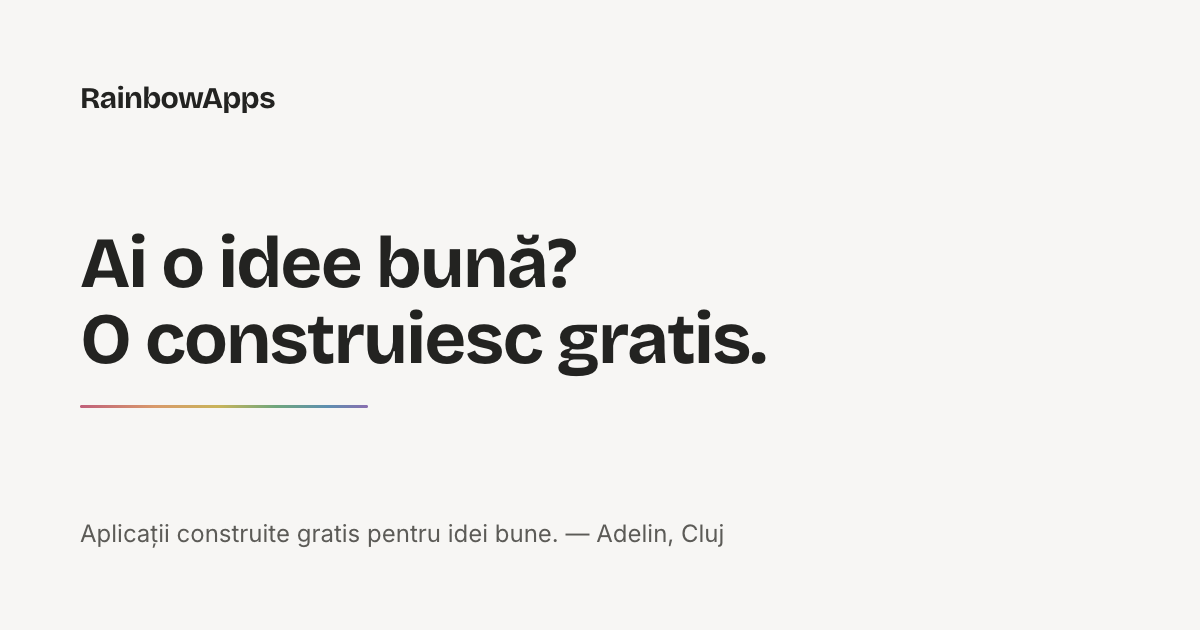
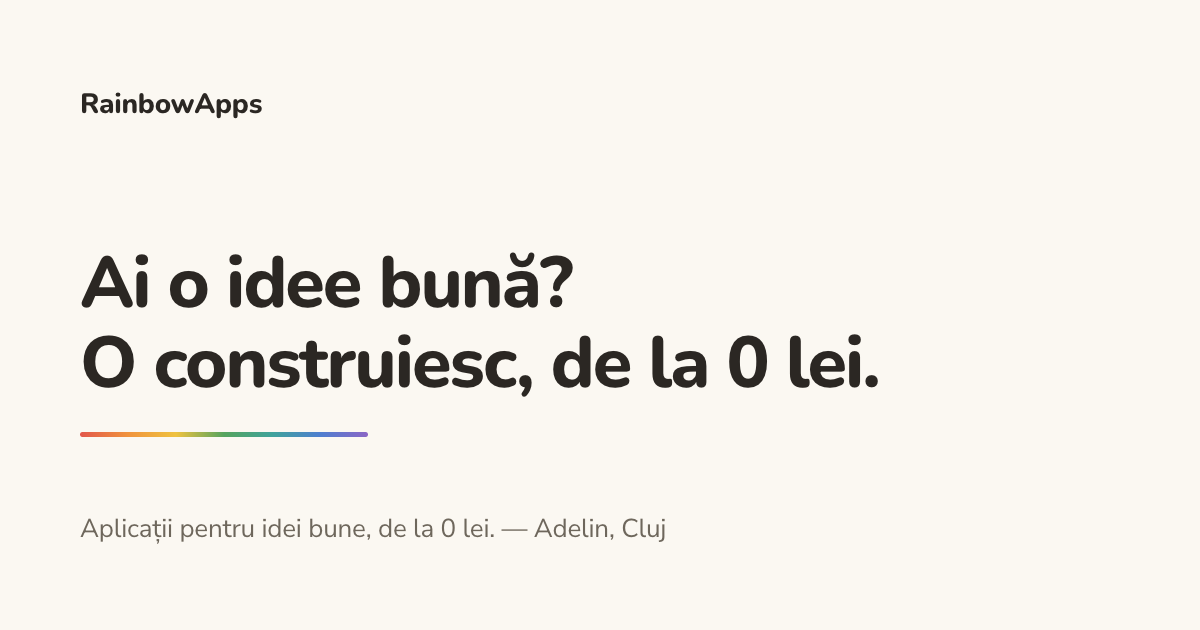
Reposition from "gratis" to "de la 0 lei": free for NGOs/good causes/small projects, paid for larger ones
- Hero, metadata/OG title+description, share texts, steps, timeline "azi", donation
  card, /colaborare rule 1 and post-handover rule now say "de la 0 lei" — gratuit
  pentru ONG-uri, cauze bune și multe idei mici; contra cost pentru proiecte mai
  mari, fără listă de prețuri (stabilit după ce citesc ideea).
- /trimite gets one muted line: you don't need to know upfront whether it's free.
- No form field, no DB change: triage happens from the idea text (owner decision).
- public/og.png regenerated from the new scripts/og.html (Nunito 800, brand spectrum).
- SPEC.md §5/§6, CLAUDE.md intro and README updated so the verbatim copy stays the
  source of truth; "ONG‑uri" uses a non-breaking hyphen so it never splits.

Claude-Session: https://claude.ai/code/session_01KcHbq2BckiAYEFheQVsfiB

Changed region(s): [[0.0617, 0.3619, 0.74, 0.6937], [0.0617, 0.8143, 0.6167, 0.8746], [0.0617, 0.1206, 0.2467, 0.181]]

diff --git a/app/page.tsx b/app/page.tsx
@@ -40,7 +40,7 @@ const SPECTRU_GRADIENT = `linear-gradient(90deg, ${SPECTRU.join(", ")})`;
 const STEPS = [
   {
     title: "Îmi spui ideea",
-    body: "Completezi un formular scurt. Fără jargon, fără cont, fără costuri.",
+    body: "Completezi un formular scurt. Fără jargon, fără cont, fără obligații.",
     color: SPECTRU[0],
   },
   {
@@ -50,7 +50,7 @@ const STEPS = [
   },
   {
     title: "O construiesc",
-    body: "De la un weekend la o lună. Singurul tău cost e domeniul, ~10–15 € pe an. Găzduirea e gratuită, iar restul e din partea mea.",
+    body: "De la un weekend la o lună. Pentru ONG‑uri, cauze bune și proiecte mici, singurul tău cost e domeniul, ~10–15 € pe an. Pentru proiecte mai mari îți spun un preț înainte să încep.",
     color: SPECTRU[3],
   },
 ];
@@ -122,12 +122,14 @@ export default async function Home() {
           <StatusBadge />
           <h1 className="font-display text-[40px] font-extrabold leading-[1.12] tracking-[-1px] text-ink text-balance sm:text-[56px]">
             Ai o idee <span className="underline-spectrum">bună</span>? O
-            construiesc gratis.
+            construiesc, de la 0 lei.
           </h1>
           <p className="max-w-[520px] text-lg leading-[1.65] text-ink-soft text-pretty">
             Sunt Adelin, programator din Cluj. Dacă ai o idee de aplicație care
-            ajută oameni, dar nu știi să programezi, o construiesc eu —
-            gratuit. Tu păstrezi totul: ideea, codul, domeniul.
+            ajută oameni, dar nu știi să programezi, o construiesc eu. Gratuit
+            pentru ONG‑uri, cauze bune și multe idei mici; contra cost pentru
+            proiecte mai mari — îți spun dinainte. Tu păstrezi totul: ideea,
+            codul, domeniul.
           </p>
           <div className="mt-1.5 flex flex-wrap gap-3">
             <Link href="/trimite" className="btn-primary">
@@ -333,8 +335,8 @@ export default async function Home() {
                   Cu o donație
                 </h3>
                 <p className="text-[14.5px] leading-relaxed text-ink-muted">
-                  Construirea e gratuită pentru oameni, dar uneltele și
-                  găzduirea costă. Orice sumă ajută.
+                  Pentru ONG‑uri și cauze bune construiesc gratuit, dar
+                  uneltele și găzduirea costă. Orice sumă ajută.
                 </p>
                 <DonateCard />
               </div>
@@ -351,7 +353,7 @@ export default async function Home() {
         <div className="reveal">
           <Kicker color={SPECTRU[3]}>Cum funcționează</Kicker>
           <h2 className="mt-2.5 mb-7 font-display text-3xl font-extrabold tracking-[-0.5px] text-ink sm:text-[34px]">
-            Trei pași, zero costuri.
+            Trei pași, fără surprize.
           </h2>
           <ol className="grid gap-5 sm:grid-cols-3">
             {STEPS.map((step, i) => (
@@ -427,7 +429,7 @@ export default async function Home() {
                 <ArcMark className="mt-0.5 h-3.5 flex-none" />
                 <p className="text-sm leading-normal text-ink-soft">
                   <strong className="text-ink">azi</strong> · Construiesc
-                  aplicații gratuite pentru oameni cu idei bune.
+                  aplicații pentru oameni cu idei bune — de la 0 lei.
                 </p>
               </li>
             </ol>

diff --git a/scripts/og.html b/scripts/og.html
@@ -1,0 +1,46 @@
+<!doctype html>
+<!--
+  Source for public/og.png (1200×630 Open Graph card).
+  Regenerate: open this file in a browser at a 1200×630 viewport and screenshot it
+  (e.g. Playwright: page.setViewportSize({width:1200,height:630}); page.screenshot({path:'public/og.png'})).
+  Keep the text in sync with the hero in SPEC.md §6.1.
+-->
+<html lang="ro">
+<head>
+  <meta charset="utf-8">
+  <title>RainbowApps OG</title>
+  <link rel="preconnect" href="https://fonts.googleapis.com">
+  <link href="https://fonts.googleapis.com/css2?family=Nunito:wght@800&family=Nunito+Sans:wght@400;700&display=swap" rel="stylesheet">
+  <style>
+    html, body { margin: 0; padding: 0; }
+    body {
+      width: 1200px; height: 630px; overflow: hidden;
+      background: #fbf8f2; color: #2b2723;
+      font-family: "Nunito Sans", system-ui, sans-serif;
+      -webkit-font-smoothing: antialiased;
+    }
+    .card { position: relative; width: 1200px; height: 630px; padding: 84px 80px; box-sizing: border-box; }
+    .brand { font-family: "Nunito", sans-serif; font-weight: 800; font-size: 28px; letter-spacing: -0.3px; }
+    h1 {
+      font-family: "Nunito", sans-serif; font-weight: 800; font-size: 72px; line-height: 1.12;
+      letter-spacing: -2px; margin: 120px 0 0; max-width: 980px;
+    }
+    .line {
+      margin-top: 28px; width: 288px; height: 5px; border-radius: 3px;
+      background: linear-gradient(90deg, #E2574C, #F0933D, #EFC23F, #55A45E, #3FA39B, #4E7FD0, #8B66C6);
+    }
+    .tag {
+      position: absolute; left: 80px; bottom: 84px;
+      font-size: 26px; color: #6e675c; letter-spacing: -0.2px;
+    }
+  </style>
+</head>
+<body>
+  <div class="card">
+    <div class="brand">RainbowApps</div>
+    <h1>Ai o idee bună?<br>O construiesc, de la 0 lei.</h1>
+    <div class="line"></div>
+    <div class="tag">Aplicații pentru idei bune, de la 0 lei. — Adelin, Cluj</div>
+  </div>
+</body>
+</html>

diff --git a/app/colaborare/page.tsx b/app/colaborare/page.tsx
@@ -4,14 +4,14 @@ import Link from "next/link";
 export const metadata: Metadata = {
   title: "Cum colaborăm — RainbowApps",
   description:
-    "Regulile colaborării, puține și simple: construirea e gratuită, stabilim împreună ce înseamnă „gata”, și totul rămâne al tău.",
+    "Regulile colaborării, puține și simple: de la 0 lei, stabilim împreună ce înseamnă „gata”, și totul rămâne al tău.",
   alternates: { canonical: "/colaborare" },
 };
 
 const REGULI = [
   {
-    title: "Construirea e gratuită.",
-    body: "De la ideea ta la o aplicație funcțională, nu mă plătești. Singurul cost e domeniul, ~10–15 € pe an. Găzduirea e de regulă gratuită la început.",
+    title: "De la 0 lei.",
+    body: "Pentru ONG‑uri, cauze bune și multe proiecte mici nu mă plătești: singurul cost e domeniul, ~10–15 € pe an, iar găzduirea e de regulă gratuită la început. Proiectele mai mari sau mai complexe — de obicei ale unor firme — sunt contra cost. Nu am o listă de prețuri: după ce îmi spui ideea, îți spun sincer unde se încadrează și, dacă e cazul, cât ar costa, înainte să scriu o linie de cod.",
   },
   {
     title: "Stabilim împreună ce înseamnă „gata”.",
@@ -23,7 +23,7 @@ const REGULI = [
   },
   {
     title: "După predare, aplicația e a ta.",
-    body: "O poți duce mai departe singur, cu altcineva sau cu mine. Dacă vrei să continuăm — funcționalități noi, întreținere, ajutor — stabilim atunci, separat. E posibil ca partea asta să nu mai fie gratuită; construirea, da, întotdeauna.",
+    body: "O poți duce mai departe singur, cu altcineva sau cu mine. Dacă vrei să continuăm — funcționalități noi, întreținere, ajutor — stabilim atunci, separat, și îți spun dinainte dacă și cât costă.",
   },
   {
     title: "Un singur proiect o dată.",

diff --git a/app/layout.tsx b/app/layout.tsx
@@ -20,9 +20,9 @@ const nunitoSans = Nunito_Sans({
 });
 
 const siteUrl = process.env.NEXT_PUBLIC_SITE_URL ?? "https://www.rainbowapps.org";
-const title = "RainbowApps — Ai o idee bună? O construiesc gratis.";
+const title = "RainbowApps — Ai o idee bună? O construiesc, de la 0 lei.";
 const description =
-  "Sunt Adelin, programator din Cluj. Dacă ai o idee de aplicație care ajută oameni, dar nu știi să programezi, o construiesc eu — gratuit.";
+  "Sunt Adelin, programator din Cluj. Dacă ai o idee de aplicație care ajută oameni, dar nu știi să programezi, o construiesc eu — gratuit pentru ONG‑uri și cauze bune, contra cost pentru proiecte mai mari.";
 
 export const metadata: Metadata = {
   metadataBase: new URL(siteUrl),
@@ -40,7 +40,7 @@ export const metadata: Metadata = {
         url: "/og.png",
         width: 1200,
         height: 630,
-        alt: "RainbowApps — Ai o idee bună? O construiesc gratis.",
+        alt: title,
       },
     ],
   },

diff --git a/components/ShareCard.tsx b/components/ShareCard.tsx
@@ -3,9 +3,9 @@
 import { useEffect, useState } from "react";
 
 const SHARE_URL = "https://www.rainbowapps.org";
-const SHARE_TITLE = "RainbowApps — Ai o idee bună? O construiesc gratis.";
+const SHARE_TITLE = "RainbowApps — Ai o idee bună? O construiesc, de la 0 lei.";
 const SHARE_TEXT =
-  "Ai o idee de aplicație care ajută oameni, dar nu știi să programezi? Adelin, un programator din Cluj, o construiește gratis — tu păstrezi totul.";
+  "Ai o idee de aplicație care ajută oameni, dar nu știi să programezi? Adelin, un programator din Cluj, o construiește — de la 0 lei. Tu păstrezi totul.";
 
 const LINKS = [
   {

diff --git a/app/trimite/page.tsx b/app/trimite/page.tsx
@@ -20,6 +20,10 @@ export default function TrimitePage() {
           Nu trebuie să fie tehnic și nu trebuie să fie perfect. Scrie-mi pur
           și simplu ce ai în cap.
         </p>
+        <p className="mt-3 text-[15px] leading-relaxed text-ink-muted">
+          Nu trebuie să știi acum dacă intră la „gratuit” sau nu. Îți spun eu,
+          sincer, după ce o citesc.
+        </p>
         <div className="mt-6 rounded-xl border border-line bg-surface p-5">
           <p className="font-display text-lg font-semibold text-ink">
             Nu știi de unde să începi?

diff --git a/SPEC.md b/SPEC.md
@@ -62,7 +62,7 @@ No CMS, no auth library, no i18n library, no AI SDK.
 | `/multumesc` | Server Component | Confirmation page shown after a successful submit |
 | `/ghid` | Server Component wrapping a client wizard | Five-step idea-structuring guide — a short, attributed adaptation of the Foundation Sprint ("Click", Knapp & Zeratsky); assembled draft prefills the /trimite form (added 2026-07-02) |
 | `/sustine` | Server Component wrapping a client form | Public testimonial ("vorbă bună") form — always lands unpublished, moderated from /admin (added 2026-07-02) |
-| `/colaborare` | Server Component | "Cum colaborăm" — the working agreement: free build, definition of done, ownership, post-handover support (added 2026-07-02) |
+| `/colaborare` | Server Component | "Cum colaborăm" — the working agreement: price from 0 lei (free for NGOs / good causes / small projects, paid for larger ones — no public prices), definition of done, ownership, post-handover support (added 2026-07-02, repositioned 2026-10-01) |
 | `/confidentialitate` | Server Component | Privacy policy in plain Romanian — GDPR information duty (added 2026-07-02) |
 
 The landing page links prominently to `/trimite`. After a successful submit, redirect to `/multumesc`.
@@ -72,16 +72,18 @@ The landing page links prominently to `/trimite`. After a successful submit, red
 ### 6.1 Landing `/`
 
 **Hero**
-- H1: `Ai o idee bună? O construiesc gratis.`
-- Subtitle: `Sunt Adelin, programator din Cluj. Dacă ai o idee de aplicație care ajută oameni, dar nu știi să programezi, o construiesc eu — gratuit. Tu păstrezi totul: ideea, codul, domeniul.`
+- H1: `Ai o idee bună? O construiesc, de la 0 lei.` *(repositioned 2026-10-01 — "de la 0 lei": free for NGOs / good causes / small projects, paid for larger ones, no public prices, no form field)*
+- Subtitle: `Sunt Adelin, programator din Cluj. Dacă ai o idee de aplicație care ajută oameni, dar nu știi să programezi, o construiesc eu. Gratuit pentru ONG-uri, cauze bune și multe idei mici; contra cost pentru proiecte mai mari — îți spun dinainte. Tu păstrezi totul: ideea, codul, domeniul.` *(repositioned 2026-10-01)*
 - Primary CTA button → `/trimite`: `Spune-mi ideea ta`
 - Show the **status badge** (section 6.4) near the hero.
 - Portrait photo of Adelin (`public/adelin.jpg`) beside the hero text on desktop, below the CTAs on mobile (added 2026-07-02 — credibility).
 
 **Cum funcționează** (a real 3-step sequence — numbered markers are appropriate here)
-1. `Îmi spui ideea` — `Completezi un formular scurt. Fără jargon, fără cont, fără costuri.`
+1. `Îmi spui ideea` — `Completezi un formular scurt. Fără jargon, fără cont, fără obligații.` *(repositioned 2026-10-01)*
 2. `Mă uit peste ea` — `Aleg ideile care ajută oameni și pe care le pot construi singur. Îți răspund oricum, indiferent de răspuns.`
-3. `O construiesc` — `De la un weekend la o lună. Singurul tău cost e domeniul, ~10–15 € pe an. Găzduirea e gratuită, iar restul e din partea mea.` *(reworded 2026-07-02 — the old "plătești doar domeniul (...) și găzduirea (gratuită)" read as paying for both)*
+3. `O construiesc` — `De la un weekend la o lună. Pentru ONG-uri, cauze bune și proiecte mici, singurul tău cost e domeniul, ~10–15 € pe an. Pentru proiecte mai mari îți spun un preț înainte să încep.` *(reworded 2026-07-02 — the old "plătești doar domeniul (...) și găzduirea (gratuită)" read as paying for both; repositioned 2026-10-01)*
+
+Section heading: `Trei pași, fără surprize.` *(was "zero costuri" — repositioned 2026-10-01)*
 
 **Povestea mea** *(added 2026-07-02, owner request — builds trust through the real arc, without private details)*
 
@@ -100,7 +102,7 @@ Timeline (a real chronological sequence — rendered along a vertical spectrum s
 - `2009` — `Primul meu program — scris ca să ușureze munca într-o firmă mică.`
 - `2012` — `M-am mutat la Cluj, în software. Am învățat să programez singur, din nevoie.`
 - `anii de după` — `Automatizare de teste, proiecte internaționale, echipe conduse.`
-- `azi` — `Construiesc aplicații gratuite pentru oameni cu idei bune.`
+- `azi` — `Construiesc aplicații pentru oameni cu idei bune — de la 0 lei.` *(repositioned 2026-10-01)*
 
 **De ce fac asta**
 > `Cred că o idee bună nu ar trebui să rămână blocată doar fiindcă omul din spatele ei nu scrie cod. M-au inspirat profesorii care predau gratis și oamenii care construiesc open source. Acesta e felul meu de a da înapoi.`
@@ -122,6 +124,7 @@ Second paragraph (added 2026-07-02 — profit-first ideas are welcome as long as
 
 - Short heading: `Trimite-mi ideea ta`
 - One reassuring line: `Nu trebuie să fie tehnic și nu trebuie să fie perfect. Scrie-mi pur și simplu ce ai în cap.`
+- A second, muted line (added 2026-10-01 — pricing is triaged from the idea text, never asked in the form): `Nu trebuie să știi acum dacă intră la „gratuit” sau nu. Îți spun eu, sincer, după ce o citesc.`
 - The form (section 7).
 
 ### 6.3 Portfolio cards (hardcoded, 3 items — third added 2026-07-02)

diff --git a/CLAUDE.md b/CLAUDE.md
@@ -1,6 +1,6 @@
 # RainbowApps — Project Guide
 
-RainbowApps (rainbowapps.org) is a free service run by one person (Adelin, Cluj-Napoca, under Rainbow Engineering SRL): I build apps for people who have a good idea but can't code. They keep everything — idea, code, domain. This website lets people submit an idea and shows my past work so they trust me.
+RainbowApps (rainbowapps.org) is a service run by one person (Adelin, Cluj-Napoca, under Rainbow Engineering SRL): I build apps for people who have a good idea but can't code. **Pricing is "de la 0 lei"** (owner decision 2026-10-01): free for NGOs, good causes and many small projects; larger/complex projects (typically companies) are paid, priced case by case after reading the idea. No public price list, no pricing/organisation field in the form — triage happens from the idea text. They keep everything — idea, code, domain. This website lets people submit an idea and shows my past work so they trust me.
 
 **Read `SPEC.md` in full before planning or building anything.** This file is only the quick reference.
 

diff --git a/README.md b/README.md
@@ -1,8 +1,9 @@
 # rainbowapps.org
 
-Free service run by Adelin (Cluj-Napoca, Rainbow Engineering SRL): people with a good
-app idea who can't code submit it through a form; Adelin builds it for free; they keep
-everything — idea, code, domain. Romanian-only UI.
+Service run by Adelin (Cluj-Napoca, Rainbow Engineering SRL): people with a good app
+idea who can't code submit it through a form; Adelin builds it "de la 0 lei" — free for
+NGOs, good causes and many small projects, paid for larger ones (no public price list,
+decided case by case). They keep everything — idea, code, domain. Romanian-only UI.
 
 **Read `SPEC.md` (product source of truth) and `CLAUDE.md` (hard rules) before changing anything.**
 Open work lives in `TODO.md`.
